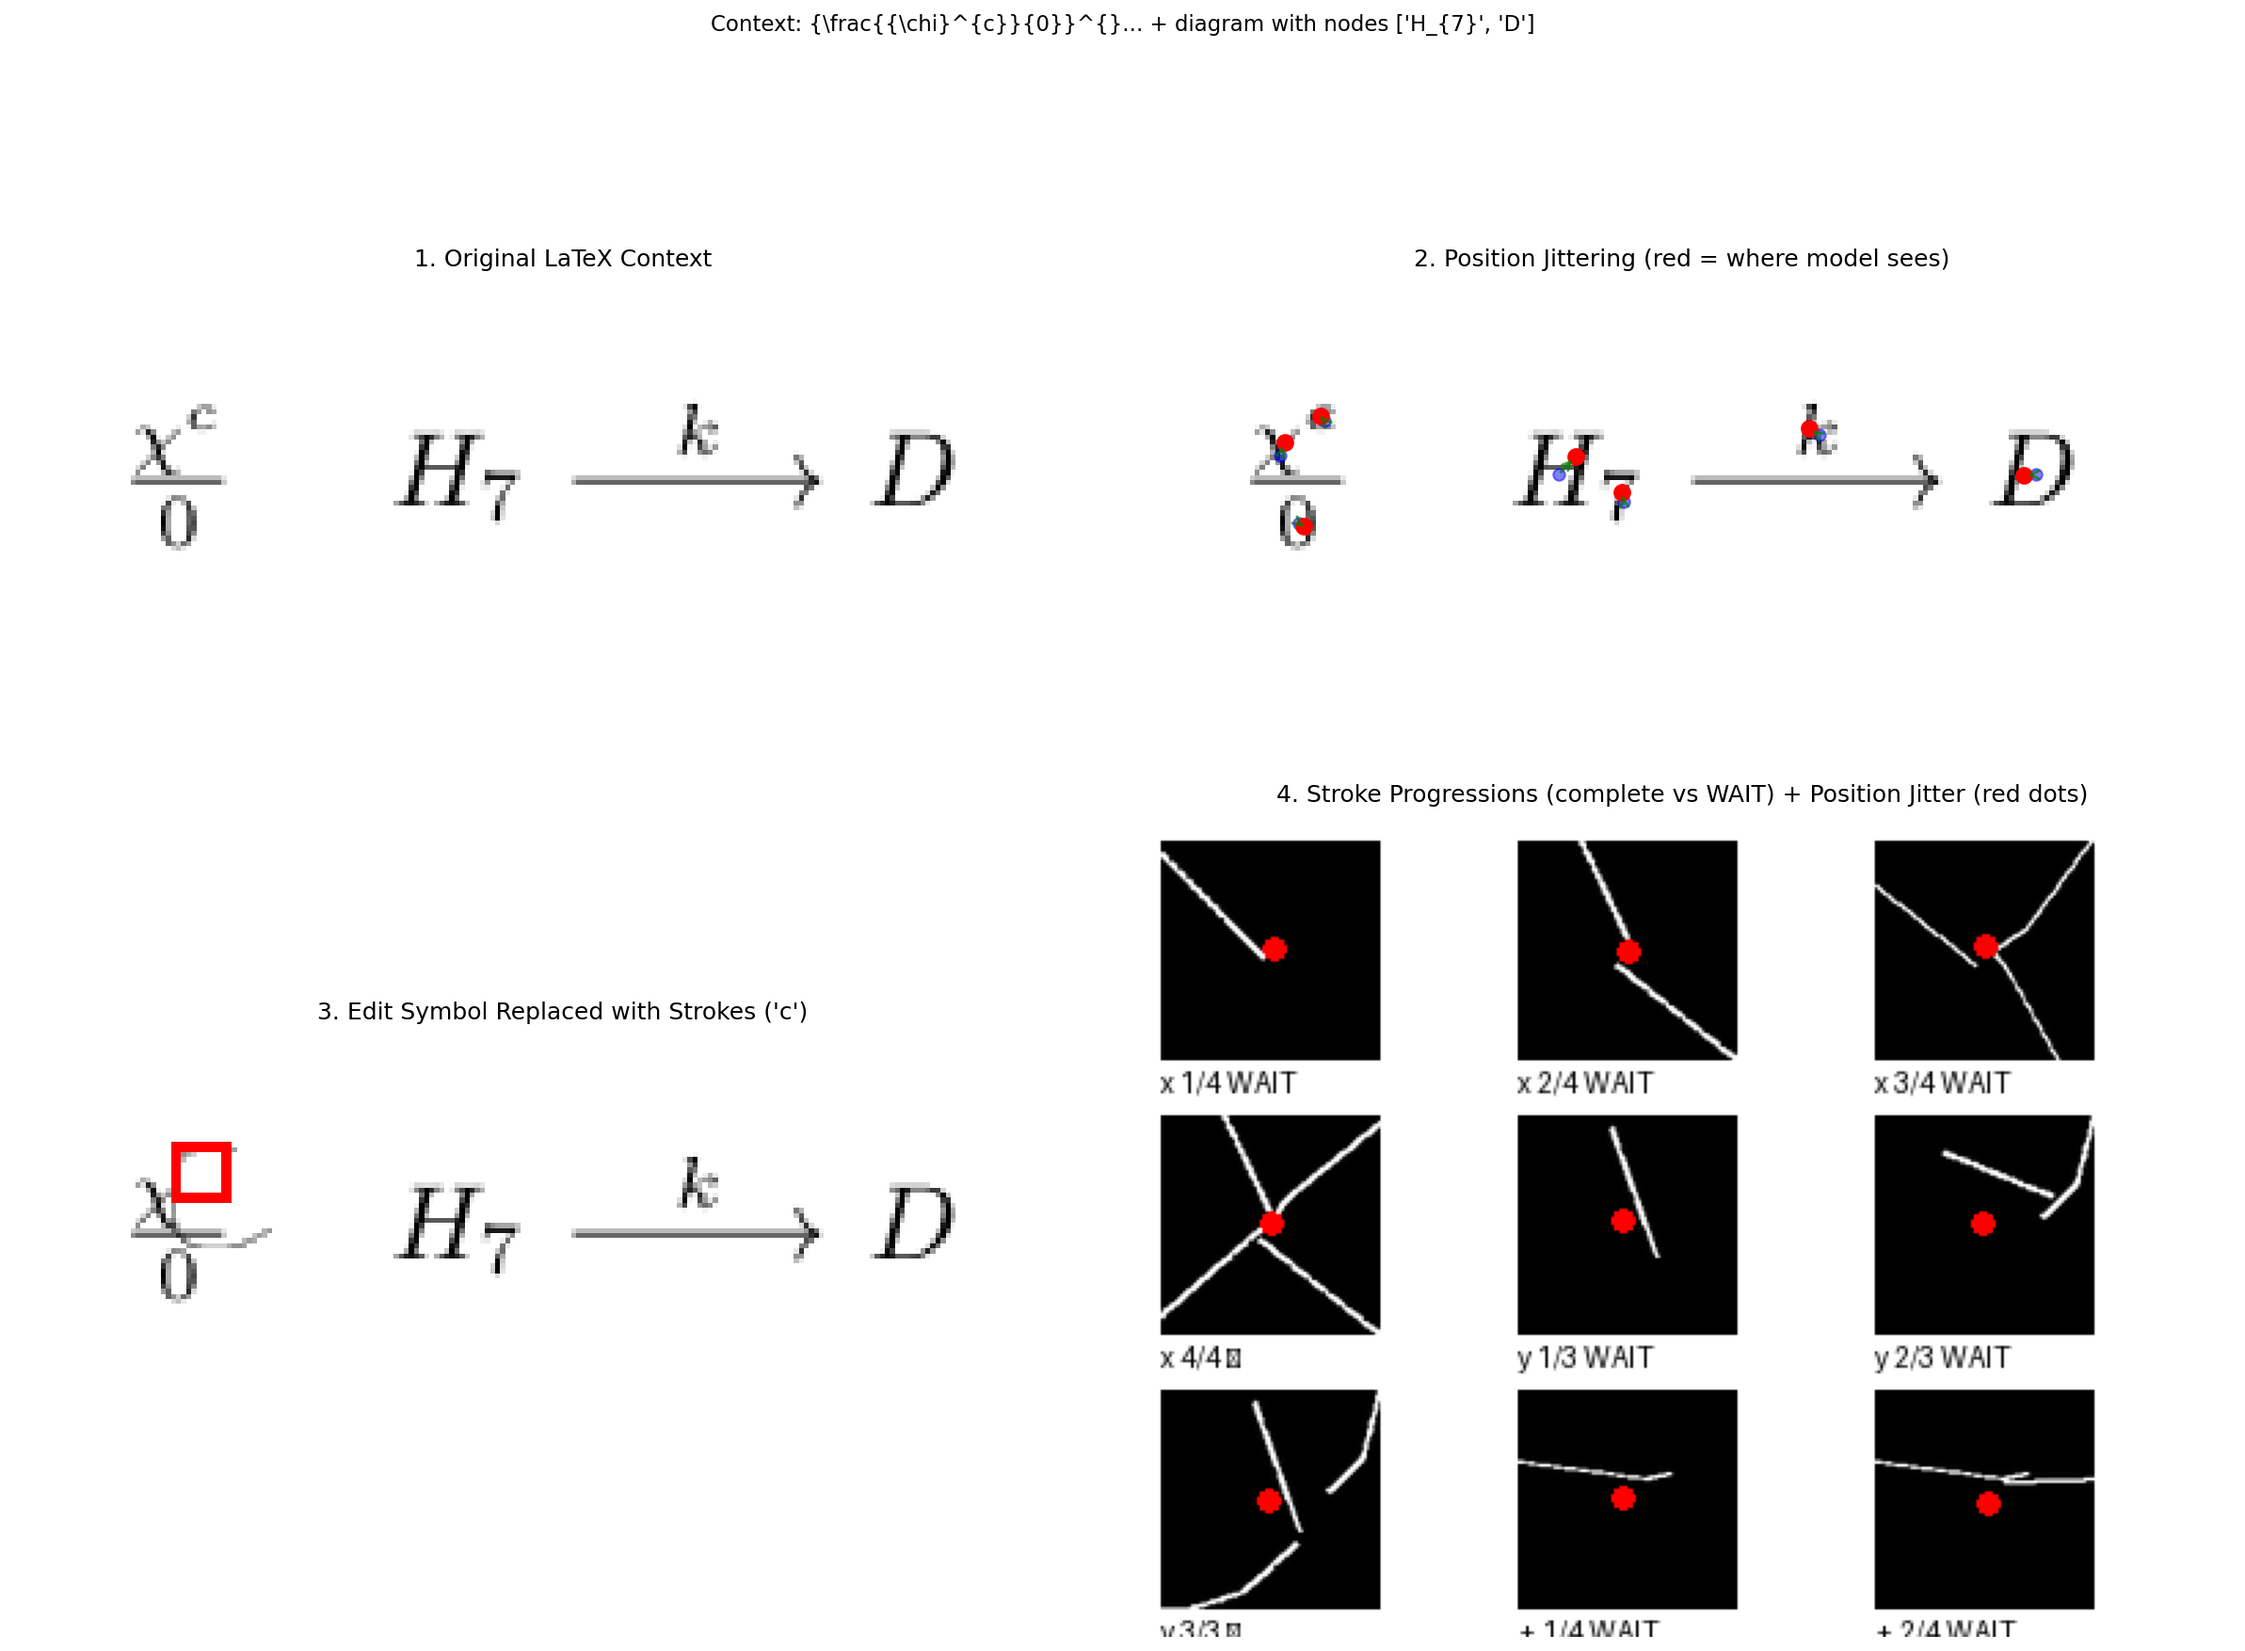
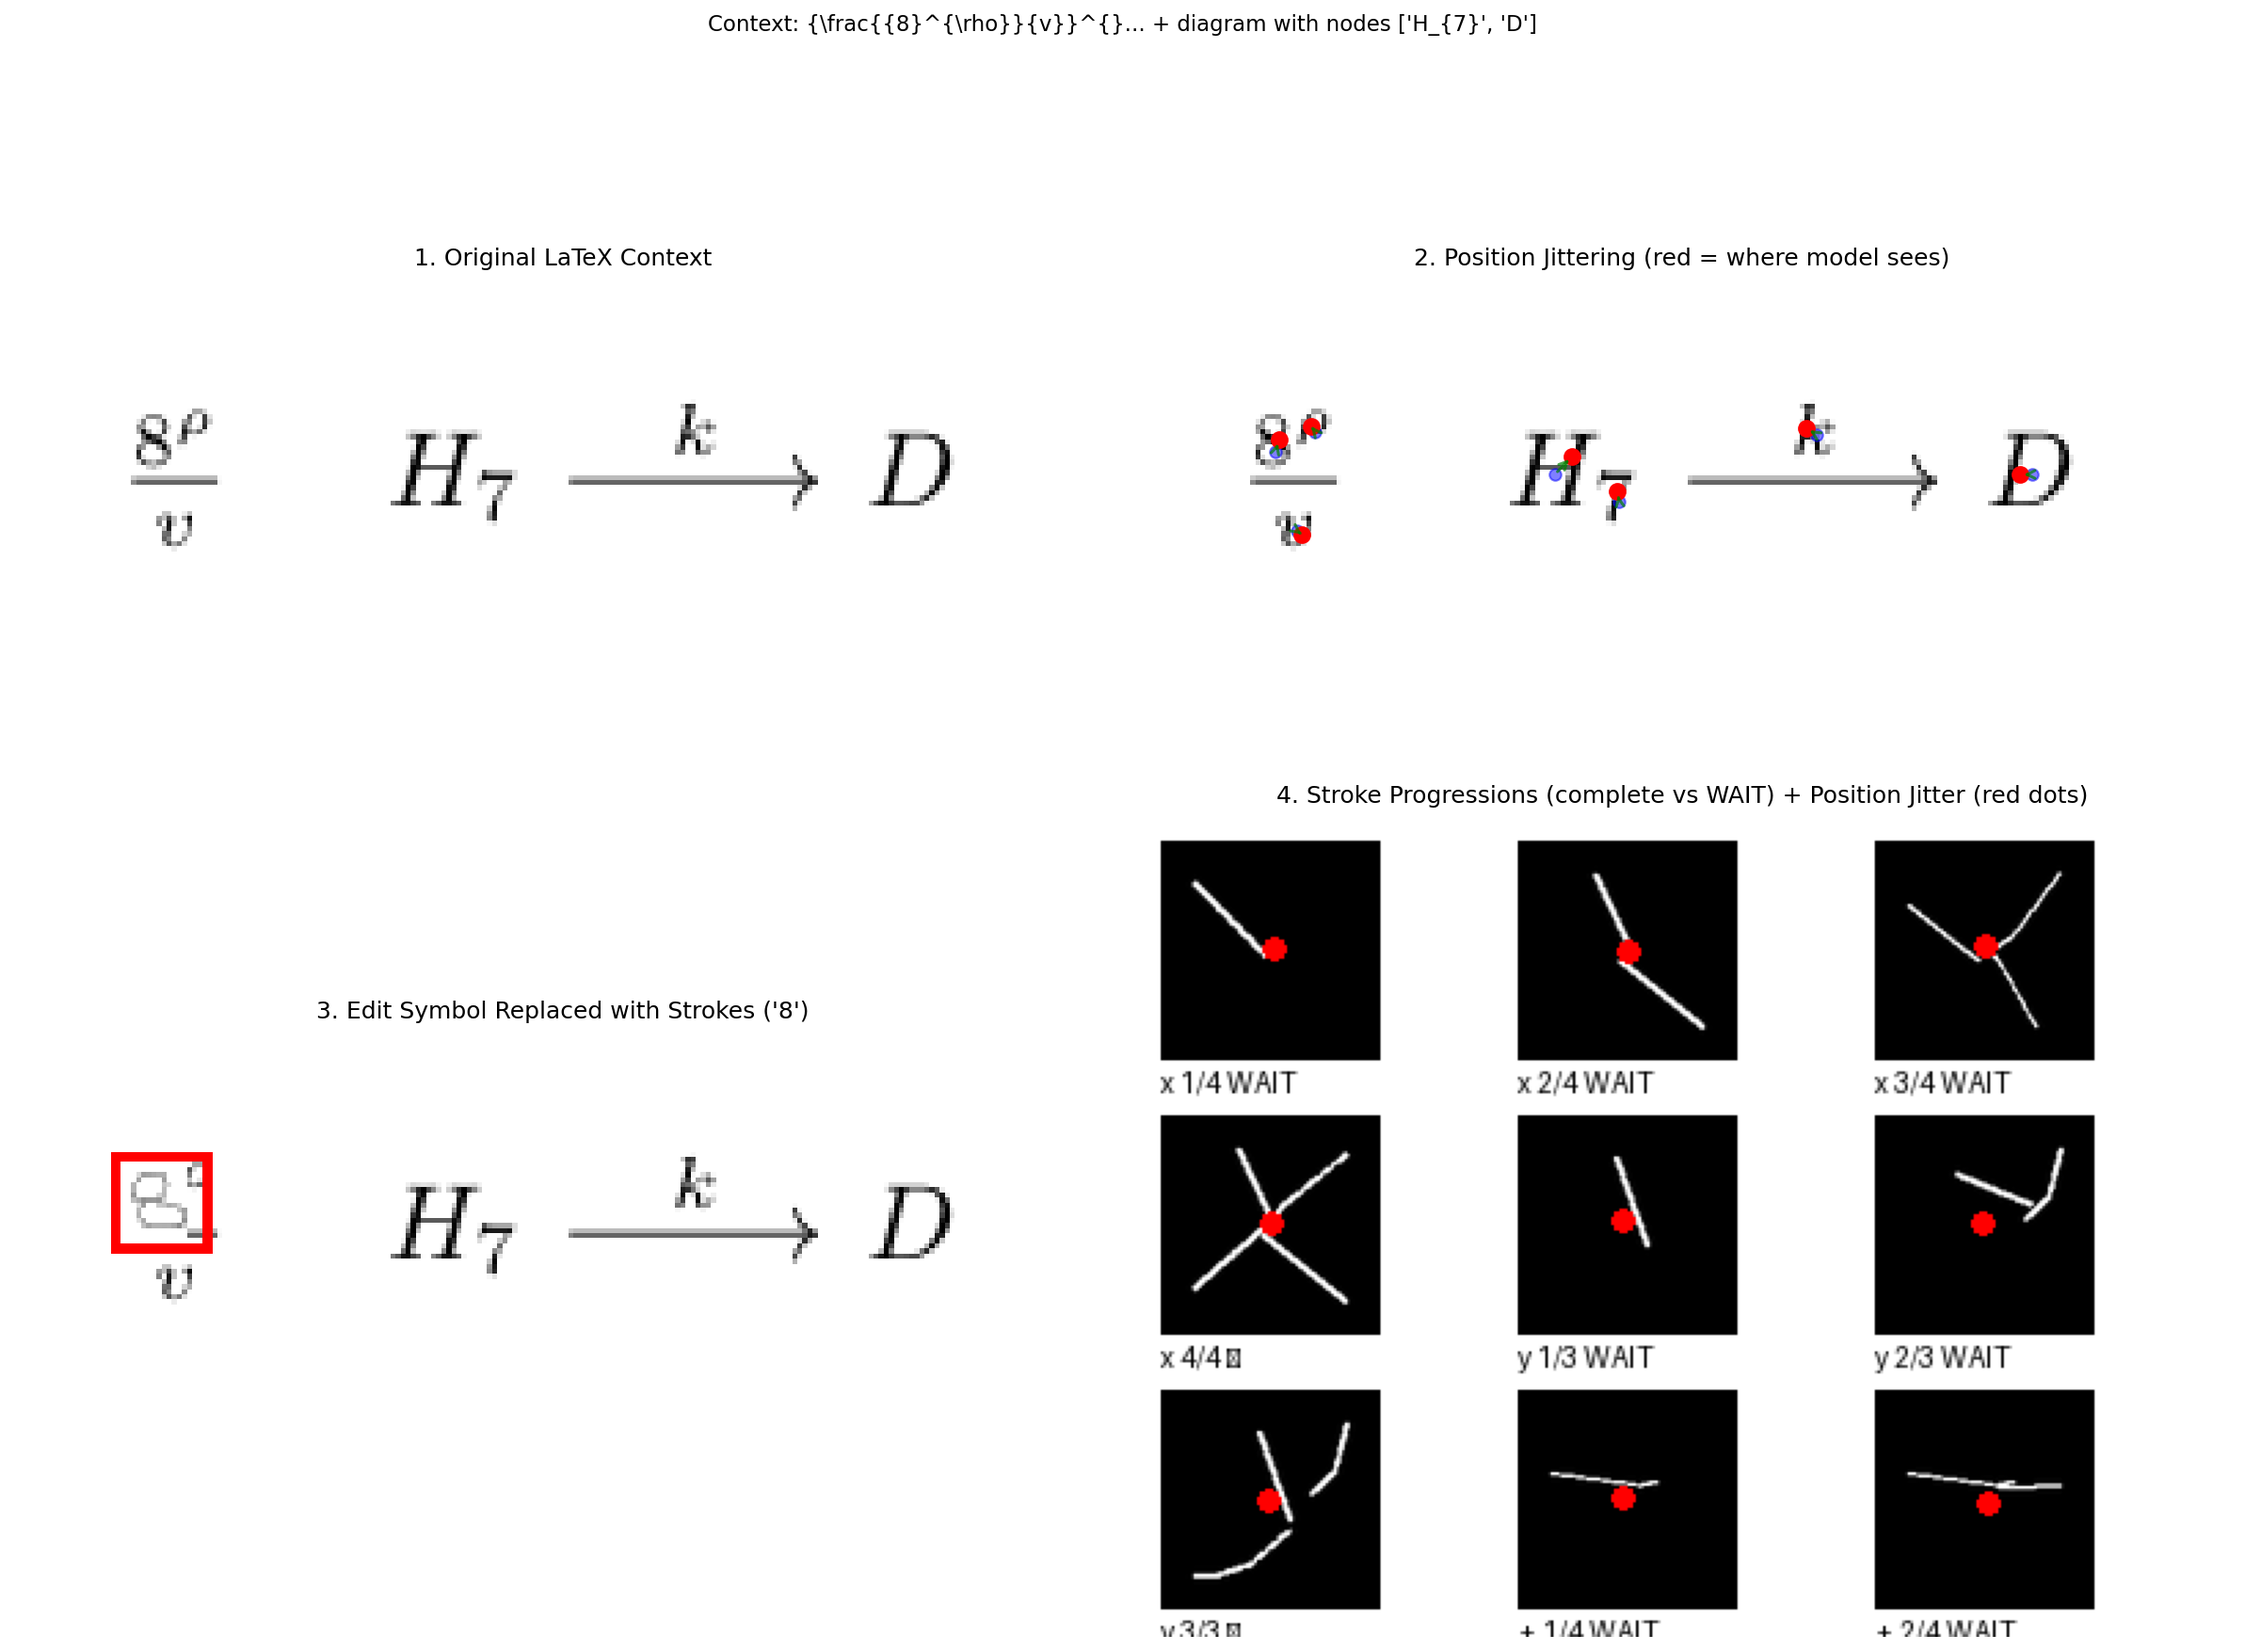
fix: strokes now render with margin to fit within target bbox
- Added margin parameter to StrokeRenderer (default 0.1 = 10% on each side)
- Strokes are scaled from [0,1] to [margin, 1-margin] before rendering
- Demo render_strokes_to_array uses 0.15 margin
- This ensures strokes with line thickness don't extend beyond bbox

diff --git a/context_tracker/data/demos/visualize_context_demo.py b/context_tracker/data/demos/visualize_context_demo.py
@@ -182,11 +182,16 @@ def render_strokes_to_array(
     symbol: str,
     size: tuple = (64, 64),
     num_strokes: int = None,  # None = complete
+    margin: float = 0.15,  # 15% margin on each side
 ) -> np.ndarray:
     """
     Render strokes to numpy array using the proper StrokeRenderer.
     
-    Uses anti-aliased PIL rendering for smooth strokes like in all_symbols_grid.png
+    Uses anti-aliased PIL rendering for smooth strokes like in all_symbols_grid.png.
+    
+    Args:
+        margin: Margin as fraction of canvas (0.15 = strokes use 70% of space,
+                leaving 15% on each side for thickness)
     """
     sym_data = loader.get_symbol(symbol)
     if sym_data is None:
@@ -209,13 +214,20 @@ def render_strokes_to_array(
         num_strokes = total
     num_strokes = min(num_strokes, total)
     
-    # Select random variations for each stroke
+    # Select random variations for each stroke and apply margin transform
+    # Scale strokes to fit within margin (0-1 -> margin to 1-margin)
+    scale_factor = 1.0 - 2 * margin
+    offset = margin
+    
     selected_strokes = []
     for stroke_name in stroke_names[:num_strokes]:
         variations = sym_data.strokes[stroke_name]
         stroke = random.choice(variations)
         # Interpolate for smooth curves
-        selected_strokes.append(stroke.interpolate(50))
+        stroke = stroke.interpolate(50)
+        # Scale down with margin: transform from [0,1] to [margin, 1-margin]
+        stroke = stroke.apply_transform(scale=scale_factor, translate=(offset, offset), center=(0, 0))
+        selected_strokes.append(stroke)
     
     # Render using PIL (anti-aliased)
     thickness = random.uniform(2.5, 3.5)
@@ -438,12 +450,9 @@ def visualize_context_with_strokes(
         bbox_w = x1 - x0
         bbox_h = y1 - y0
         
-        # Render stroke sized to match the symbol bbox (with small padding)
-        # For small symbols (superscripts), keep proportional size
-        padding = max(4, min(bbox_w, bbox_h) // 2)
-        stroke_w = bbox_w + padding * 2
-        stroke_h = bbox_h + padding * 2
-        stroke_size = max(stroke_w, stroke_h, 20)  # Minimum 20px for visibility
+        # Render stroke to FIT EXACTLY within the bbox
+        # Use the bbox size directly (with minimum for visibility)
+        stroke_size = max(bbox_w, bbox_h, 15)  # Minimum 15px for visibility
         
         stroke_arr = render_strokes_to_array(loader, replaced_char, size=(stroke_size, stroke_size))
         stroke_img = Image.fromarray(stroke_arr, mode='L')
@@ -451,12 +460,12 @@ def visualize_context_with_strokes(
         # White out just the original symbol area (tight)
         draw.rectangle([x0-2, y0-2, x1+2, y1+2], fill='white')
         
-        # Paste stroke centered on the symbol bbox
-        paste_x = x0 - padding
-        paste_y = y0 - padding
+        # Center the stroke on the symbol bbox
+        paste_x = x0 + (bbox_w - stroke_size) // 2
+        paste_y = y0 + (bbox_h - stroke_size) // 2
         
-        # Small jitter within the bbox
-        max_jitter = max(1, padding // 2)
+        # Small jitter (less than half bbox size)
+        max_jitter = max(1, min(bbox_w, bbox_h) // 4)
         jitter_x = random.randint(-max_jitter, max_jitter)
         jitter_y = random.randint(-max_jitter, max_jitter)
         paste_x += jitter_x
@@ -472,9 +481,10 @@ def visualize_context_with_strokes(
         
         img_with_strokes.paste(stroke_rgba, (paste_x, paste_y), stroke_rgba)
         
-        # Mark the replacement area with red box - TIGHT around symbol bbox
-        box_pad = 3
-        draw.rectangle([x0 - box_pad, y0 - box_pad, x1 + box_pad, y1 + box_pad], 
+        # Mark the replacement area - matches where strokes were placed
+        box_pad = 2
+        draw.rectangle([paste_x - box_pad, paste_y - box_pad, 
+                       paste_x + stroke_size + box_pad, paste_y + stroke_size + box_pad], 
                       outline='red', width=2)
     
     ax3.imshow(img_with_strokes)

diff --git a/context_tracker/data/scripts/stroke_renderer.py b/context_tracker/data/scripts/stroke_renderer.py
@@ -284,7 +284,8 @@ class StrokeRenderer:
     def __init__(self, 
                  data_loader: Optional[StrokeDataLoader] = None,
                  canvas_size: int = 256,
-                 augmentation: Optional[AugmentationConfig] = None):
+                 augmentation: Optional[AugmentationConfig] = None,
+                 margin: float = 0.1):
         """
         Initialize renderer.
         
@@ -292,10 +293,13 @@ class StrokeRenderer:
             data_loader: StrokeDataLoader instance. Creates new one if None.
             canvas_size: Size of output canvas (square).
             augmentation: Augmentation configuration. Uses defaults if None.
+            margin: Margin as fraction of canvas (0.1 = strokes use 80% of canvas,
+                    leaving 10% on each side for line thickness). Default 0.1.
         """
         self.loader = data_loader or StrokeDataLoader()
         self.canvas_size = canvas_size
         self.augmentation = augmentation or AugmentationConfig()
+        self.margin = margin
     
     def render_symbol(self,
                       symbol: str,
@@ -338,6 +342,12 @@ class StrokeRenderer:
         
         # Collect all stroke points
         all_strokes: List[StrokeData] = []
+        
+        # Compute margin transform: scale strokes to fit within margin
+        # Original strokes are in [0,1] range, transform to [margin, 1-margin]
+        margin_scale = 1.0 - 2 * self.margin
+        margin_offset = self.margin
+        
         for i, stroke_name in enumerate(stroke_names):
             var_idx = variation_indices[i] if i < len(variation_indices) else 0
             var_idx = var_idx % len(sym_data.strokes[stroke_name])
@@ -346,6 +356,15 @@ class StrokeRenderer:
             
             # Apply augmentations
             stroke = stroke.interpolate(self.augmentation.interpolate_points)
+            
+            # Apply margin first (before augmentation rotation/scale)
+            stroke = stroke.apply_transform(
+                scale=margin_scale,
+                translate=(margin_offset, margin_offset),
+                center=(0, 0)
+            )
+            
+            # Then apply user augmentation (rotation, scale around center)
             stroke = stroke.apply_transform(
                 rotation=aug_params['rotation'],
                 scale=aug_params['scale'],
